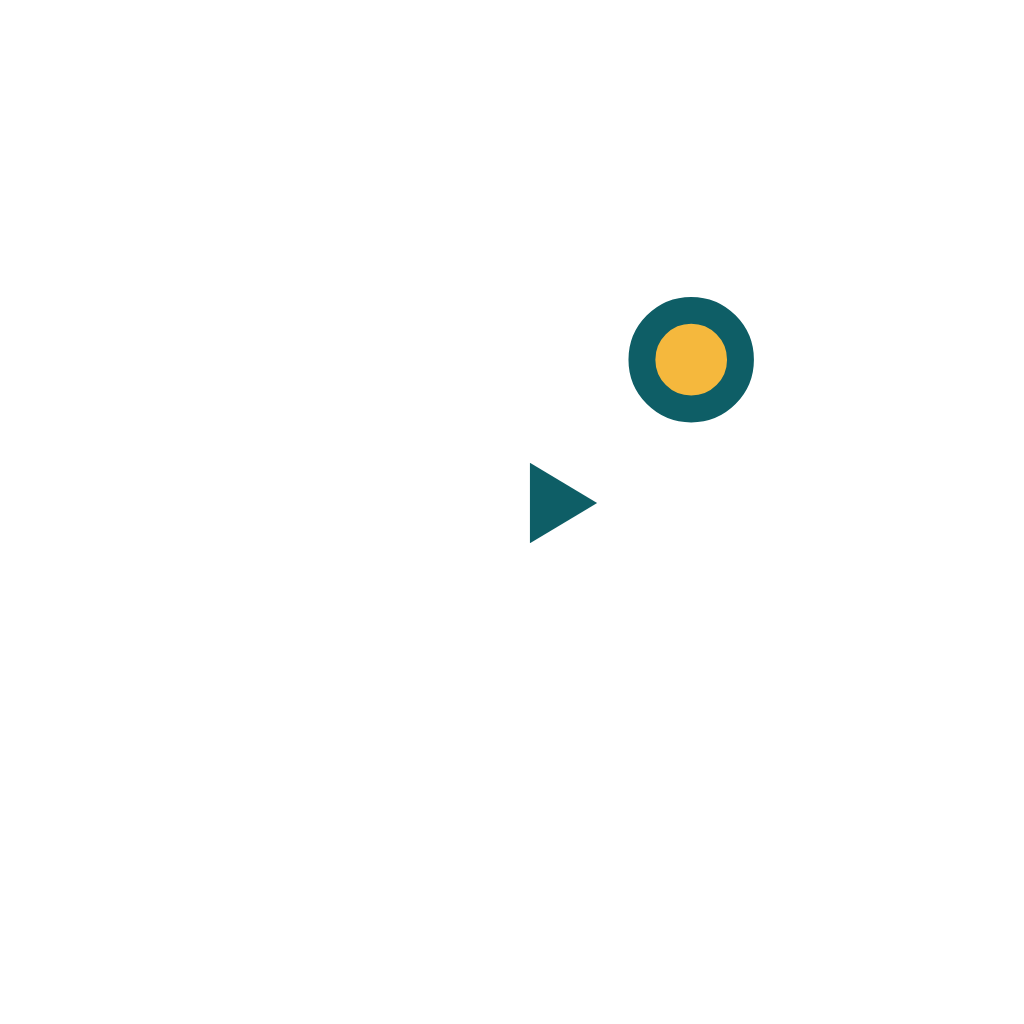
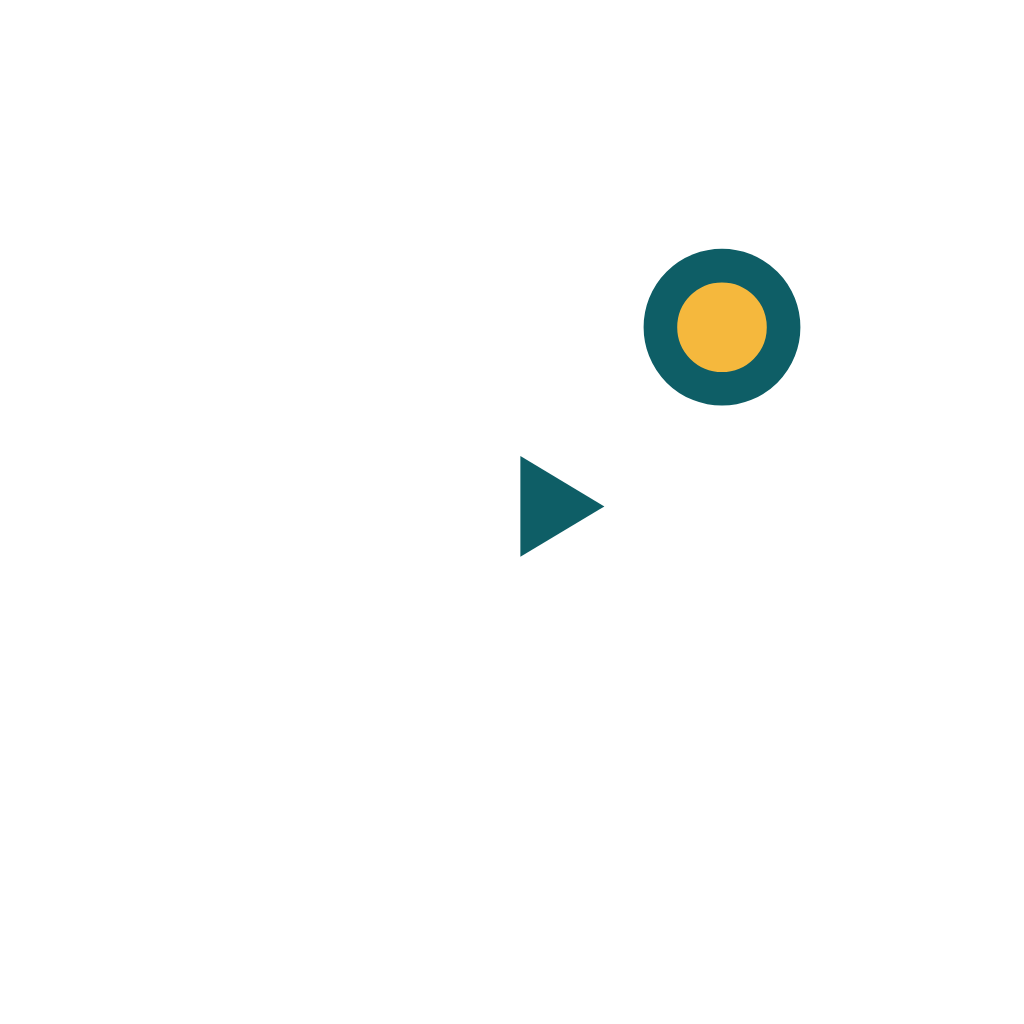
Son açılan okul hatırlanır; APK "Okul Yayın" adıyla, ikon ve açılış ekranı büyütüldü
- Platform yöneticisi yeni cihazda giriş yapınca alfabetik ilk okul (başka
  bir okulun verisi) açılıyordu: seçilen okul sunucuda saklanır
  (users.last_school_id, PUT /api/me/school) ve panelde, mobilde açılışta o
  okul seçilir; yöneticinin üyesi olduğu okullar listenin başındadır
- Android ikonu: uyarlanabilir ikonda logo büyütüldü; açılış ekranı marka
  renginde, logo çerçevesiz
- Sürüm sayfası başlığı ve açıklaması güncellenir; APK dosyası
  Okul-Yayin.apk ("Okul Yayın" etiketiyle), eski okul-pano.apk kaldırılır

Claude-Session: https://claude.ai/code/session_01CvnmJx4xcX1BgiJk5HExJg

Changed region(s): [[0.5938, 0.2188, 0.7812, 0.4375], [0.5, 0.4375, 0.5938, 0.5625]]

diff --git a/okul-pano/apps/api/src/routes/auth.ts b/okul-pano/apps/api/src/routes/auth.ts
@@ -1,10 +1,11 @@
 import { changePasswordSchema, effectivePermissions, loginSchema } from '@okulpano/shared';
 import { and, asc, eq, gt, lt } from 'drizzle-orm';
 import type { FastifyInstance, FastifyReply, FastifyRequest } from 'fastify';
+import { z } from 'zod';
 import { accessUser } from '../context.ts';
 import { memberships, schools, sessions, users } from '../db/schema.ts';
 import { burnPasswordCheck, hashPassword, randomToken, sha256, verifyPassword } from '../lib/crypto.ts';
-import { badRequest, parse, unauthorized } from '../lib/errors.ts';
+import { badRequest, notFound, parse, unauthorized } from '../lib/errors.ts';
 
 const ACCESS_TTL = '15m';
 const REFRESH_TTL_MS = 30 * 24 * 3600 * 1000;
@@ -89,21 +90,31 @@ export async function authRoutes(app: FastifyInstance) {
     return reply.status(204).send();
   });
 
+  /** Platform yöneticisi bütün okulları görür; üyesi olduğu (kendi) okulları listenin başındadır */
+  async function superAdminSchools(userId: string) {
+    const own = new Set(
+      (await db.select({ id: memberships.schoolId }).from(memberships).where(eq(memberships.userId, userId))).map((m) => m.id),
+    );
+    const all = await db.select().from(schools).orderBy(asc(schools.name));
+    return [...all.filter((s) => own.has(s.id)), ...all.filter((s) => !own.has(s.id))].map((school) => ({
+      school,
+      role: 'owner' as const,
+      permissions: [] as string[],
+      teacherId: null as string | null,
+    }));
+  }
+
   app.get('/api/me', { preHandler: app.authenticate }, async (req) => {
     const { sub } = accessUser(req);
     const [user] = await db
-      .select({ id: users.id, email: users.email, fullName: users.fullName, isSuperAdmin: users.isSuperAdmin })
+      .select({ id: users.id, email: users.email, fullName: users.fullName, isSuperAdmin: users.isSuperAdmin, lastSchoolId: users.lastSchoolId })
       .from(users)
       .where(eq(users.id, sub));
     if (!user) throw unauthorized();
+    const { lastSchoolId, ...profile } = user;
 
     const rows = user.isSuperAdmin
-      ? (await db.select().from(schools).orderBy(asc(schools.name))).map((school) => ({
-          school,
-          role: 'owner' as const,
-          permissions: [] as string[],
-          teacherId: null as string | null,
-        }))
+      ? await superAdminSchools(sub)
       : await db
           .select({ school: schools, role: memberships.role, permissions: memberships.permissions, teacherId: memberships.teacherId })
           .from(memberships)
@@ -112,7 +123,9 @@ export async function authRoutes(app: FastifyInstance) {
           .orderBy(asc(schools.name));
 
     return {
-      user,
+      user: profile,
+      /** Açılışta seçilecek okul: en son açılan, yoksa listenin ilki */
+      lastSchoolId: rows.some((r) => r.school.id === lastSchoolId) ? lastSchoolId : null,
       schools: rows.map((r) => ({
         id: r.school.id,
         name: r.school.name,
@@ -124,6 +137,21 @@ export async function authRoutes(app: FastifyInstance) {
         teacherId: r.teacherId,
       })),
     };
+  });
+
+  /** Seçilen okulu hatırlar (panelde ya da mobilde okul değiştirildiğinde) */
+  app.put('/api/me/school', { preHandler: app.authenticate }, async (req, reply) => {
+    const { sub, sa } = accessUser(req);
+    const { schoolId } = parse(z.object({ schoolId: z.string().uuid() }), req.body);
+    const [allowed] = sa
+      ? await db.select({ id: schools.id }).from(schools).where(eq(schools.id, schoolId))
+      : await db
+          .select({ id: memberships.schoolId })
+          .from(memberships)
+          .where(and(eq(memberships.userId, sub), eq(memberships.schoolId, schoolId)));
+    if (!allowed) throw notFound();
+    await db.update(users).set({ lastSchoolId: schoolId }).where(eq(users.id, sub));
+    return reply.status(204).send();
   });
 
   app.post('/api/me/password', { preHandler: app.authenticate }, async (req, reply) => {

diff --git a/okul-pano/mobile/src/auth.tsx b/okul-pano/mobile/src/auth.tsx
@@ -19,6 +19,8 @@ export interface SchoolAccess {
 export interface Me {
   user: { id: string; email: string; fullName: string; isSuperAdmin: boolean };
   schools: SchoolAccess[];
+  /** En son açılan okul (panelde ya da başka cihazda seçilmiş olabilir) */
+  lastSchoolId?: string | null;
 }
 
 /** Yönetici ekranlarını (kontrol merkezi, onaylar, pano kumandası) açan yetkiler */
@@ -51,7 +53,8 @@ export function AuthProvider({ children }: { children: ReactNode }) {
   const loadMe = useCallback(async (preferred: string | null) => {
     const data = await api<Me>('/api/me');
     setMe(data);
-    const pick = data.schools.find((s) => s.id === preferred) ?? data.schools[0] ?? null;
+    const pick =
+      data.schools.find((s) => s.id === preferred) ?? data.schools.find((s) => s.id === data.lastSchoolId) ?? data.schools[0] ?? null;
     setSchoolId(pick?.id ?? null);
     await session.setSchool(pick?.id ?? null);
     setStatus('signedIn');
@@ -102,6 +105,7 @@ export function AuthProvider({ children }: { children: ReactNode }) {
         setSchoolId(id);
         await session.setSchool(id);
         qc.clear();
+        void api('/api/me/school', { method: 'PUT', body: { schoolId: id } }).catch(() => undefined);
       },
     };
   }, [status, me, schoolId, server, loadMe, qc]);

diff --git a/okul-pano/apps/admin/src/lib/auth.tsx b/okul-pano/apps/admin/src/lib/auth.tsx
@@ -16,6 +16,8 @@ export interface SchoolAccess {
 export interface Me {
   user: { id: string; email: string; fullName: string; isSuperAdmin: boolean };
   schools: SchoolAccess[];
+  /** En son açılan okul (başka cihazda seçilmiş olabilir) */
+  lastSchoolId: string | null;
 }
 
 interface AuthState {
@@ -50,7 +52,9 @@ export function AuthProvider({ children }: { children: ReactNode }) {
   const reloadMe = useCallback(async () => {
     const data = await api<Me>('/api/me');
     setMe(data);
-    setSchoolIdState((current) => (data.schools.some((s) => s.id === current) ? current : (data.schools[0]?.id ?? '')));
+    setSchoolIdState((current) =>
+      data.schools.some((s) => s.id === current) ? current : (data.lastSchoolId ?? data.schools[0]?.id ?? ''),
+    );
   }, []);
 
   useEffect(() => {
@@ -80,6 +84,8 @@ export function AuthProvider({ children }: { children: ReactNode }) {
         /* yok say */
       }
       queryClient.removeQueries();
+      // Başka cihazdan girişte de aynı okul açılsın
+      void api('/api/me/school', { method: 'PUT', body: { schoolId: id } }).catch(() => undefined);
     },
     [queryClient],
   );

diff --git a/okul-pano/apps/api/test/signup.test.ts b/okul-pano/apps/api/test/signup.test.ts
@@ -186,6 +186,18 @@ describe('kullanıcı daveti', () => {
   });
 });
 
+describe('son açılan okul', () => {
+  it('seçilen okul hatırlanır; başka cihazdan girişte o açılır', async () => {
+    const schools = (await root.get('/api/me')).json().schools as { id: string; name: string }[];
+    const target = schools.find((s) => s.name === 'Güneş İlkokulu')!;
+    expect((await root.put('/api/me/school', { schoolId: target.id })).statusCode).toBe(204);
+    expect((await root.get('/api/me')).json().lastSchoolId).toBe(target.id);
+    // Üyesi olmadığı okulu seçemez
+    const owner = await as('aylin@yildiz.test');
+    expect((await owner.put('/api/me/school', { schoolId: target.id })).statusCode).toBe(404);
+  });
+});
+
 describe('kayıt kapalı', () => {
   it('SIGNUP_MODE=closed iken kayıt alınmaz; approval iken okul onay bekler', async () => {
     const closed = await createTestApp({ SIGNUP_MODE: 'closed' });

diff --git a/okul-pano/apps/api/src/db/schema.ts b/okul-pano/apps/api/src/db/schema.ts
@@ -41,6 +41,8 @@ export const users = pgTable('users', {
   passwordHash: text('password_hash').notNull(),
   fullName: text('full_name').notNull(),
   isSuperAdmin: boolean('is_super_admin').notNull().default(false),
+  /** En son açılan okul: başka cihazdan girişte de aynı okul açılır (platform yöneticisi bütün okulları görür) */
+  lastSchoolId: uuid('last_school_id').references((): AnyPgColumn => schools.id, { onDelete: 'set null' }),
   lastLoginAt: timestamp('last_login_at', { withTimezone: true }),
   createdAt: createdAt(),
   updatedAt: updatedAt(),
